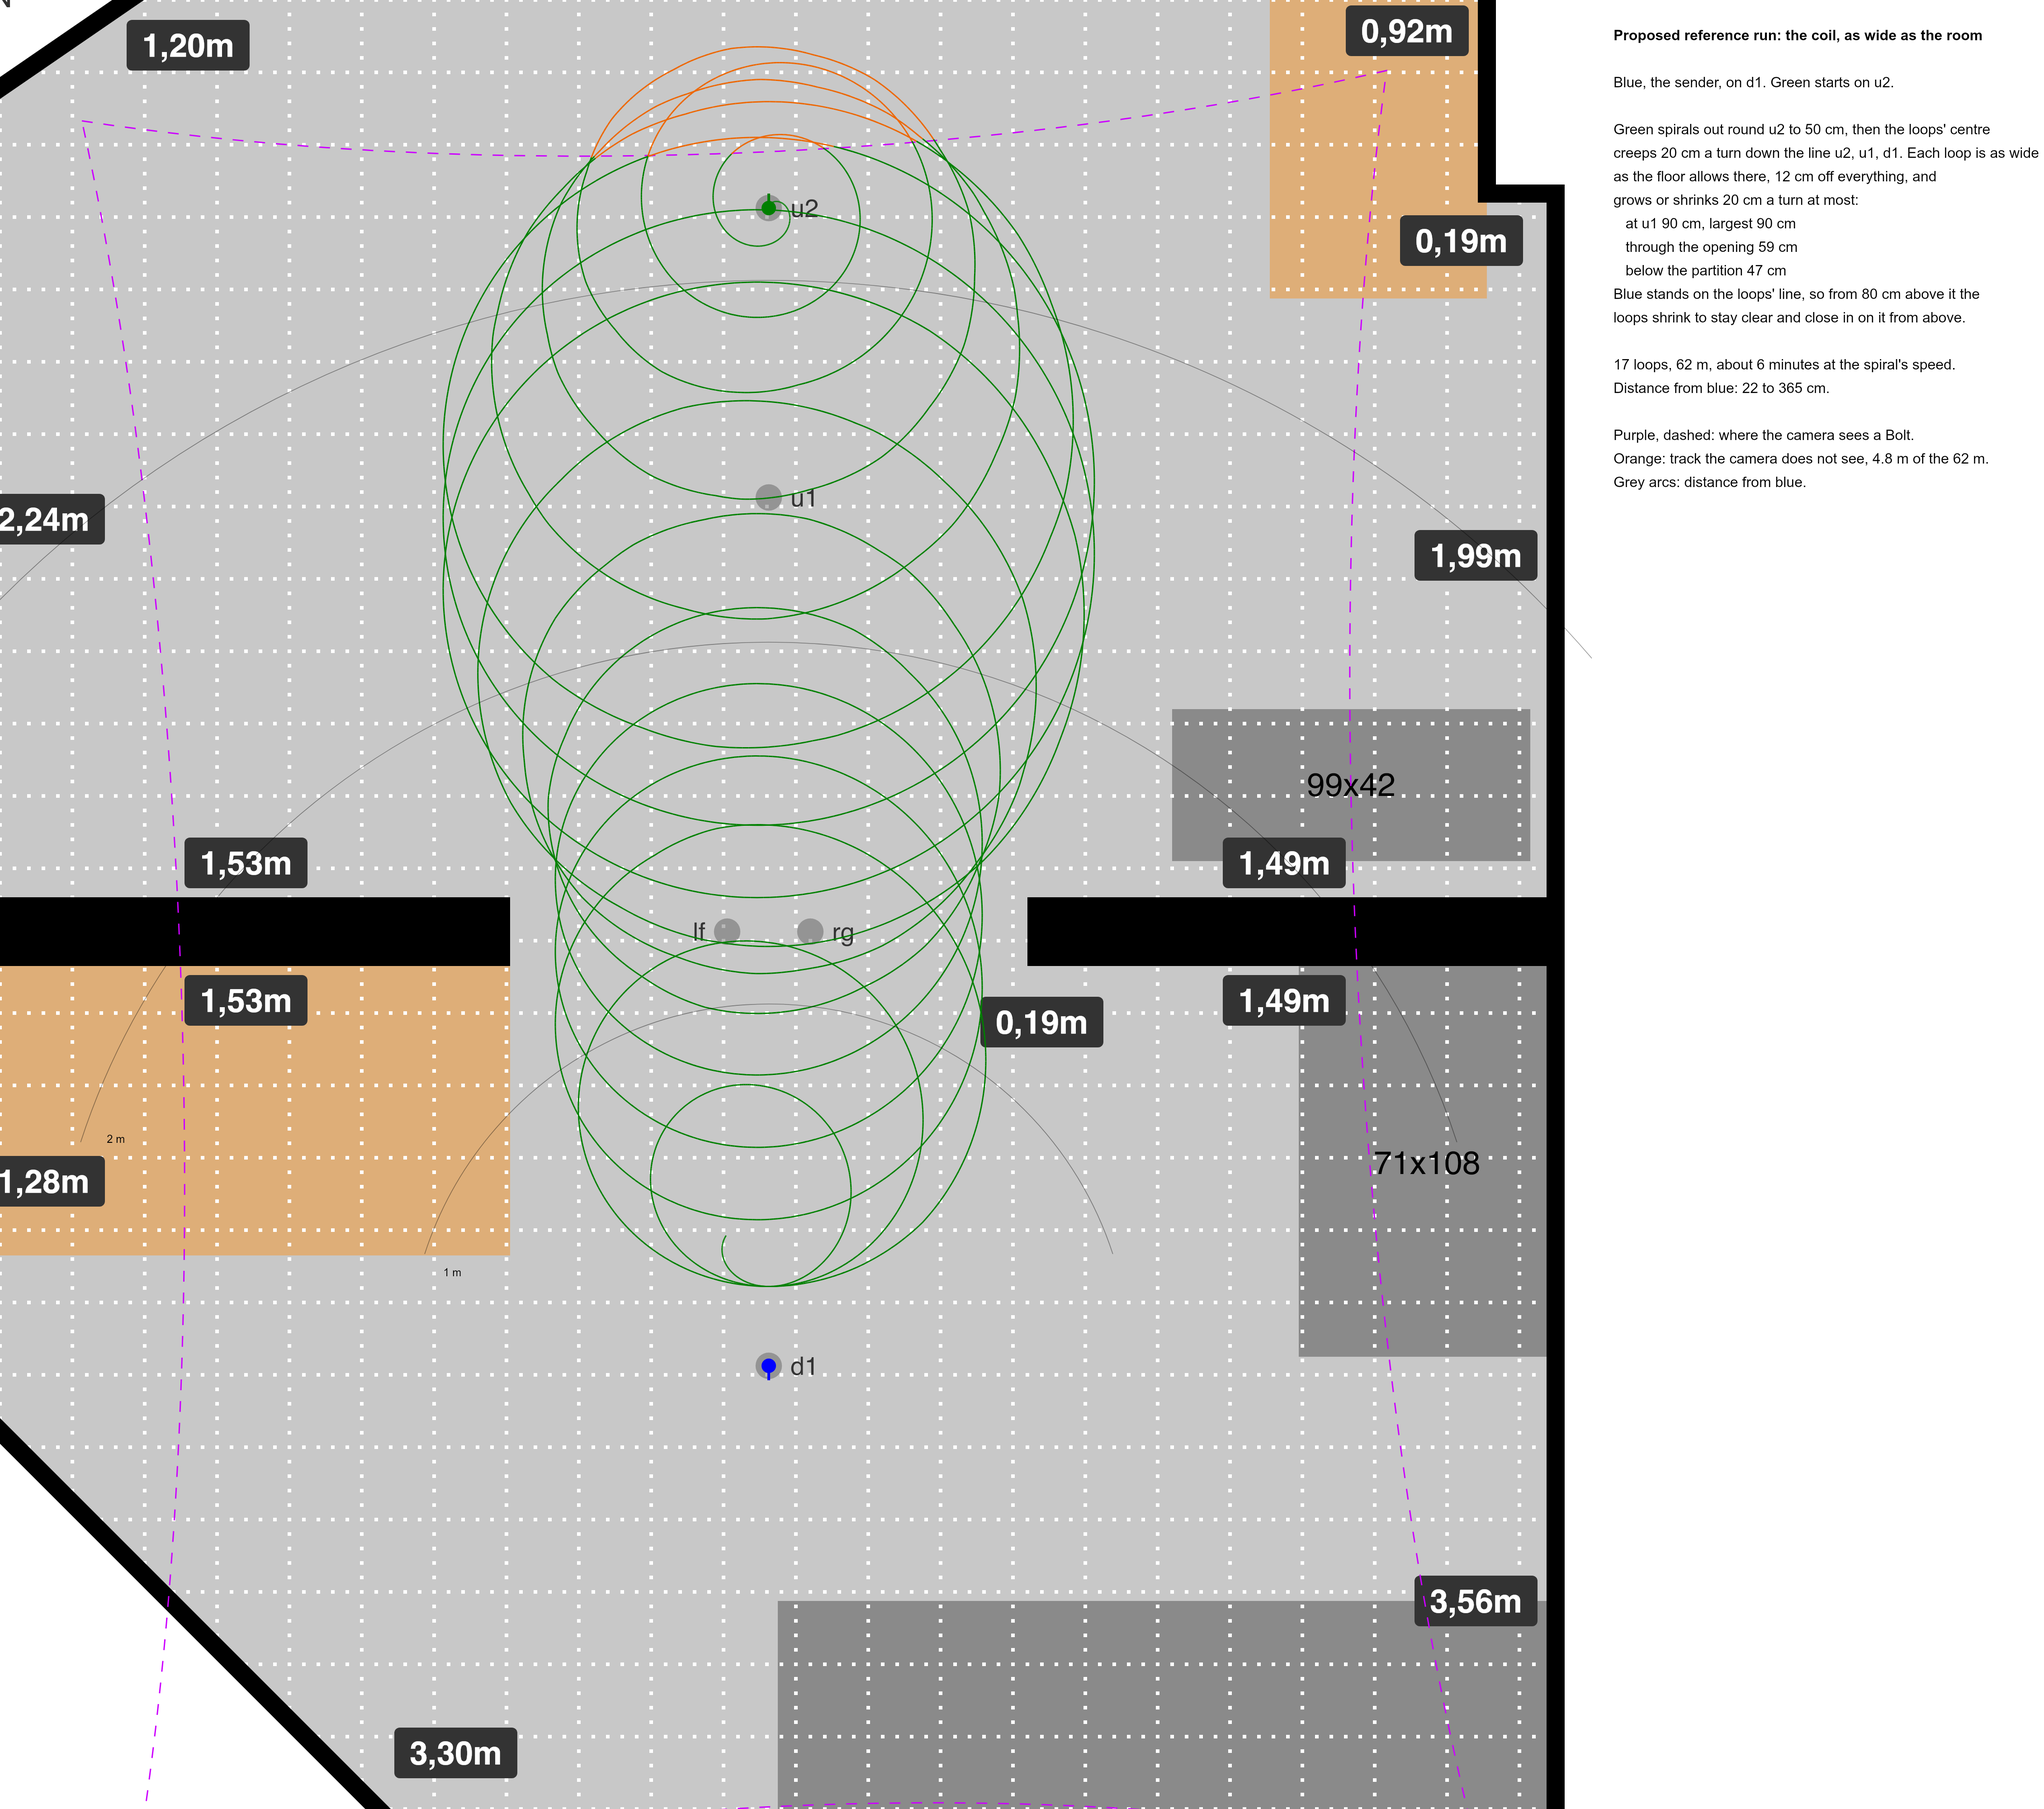
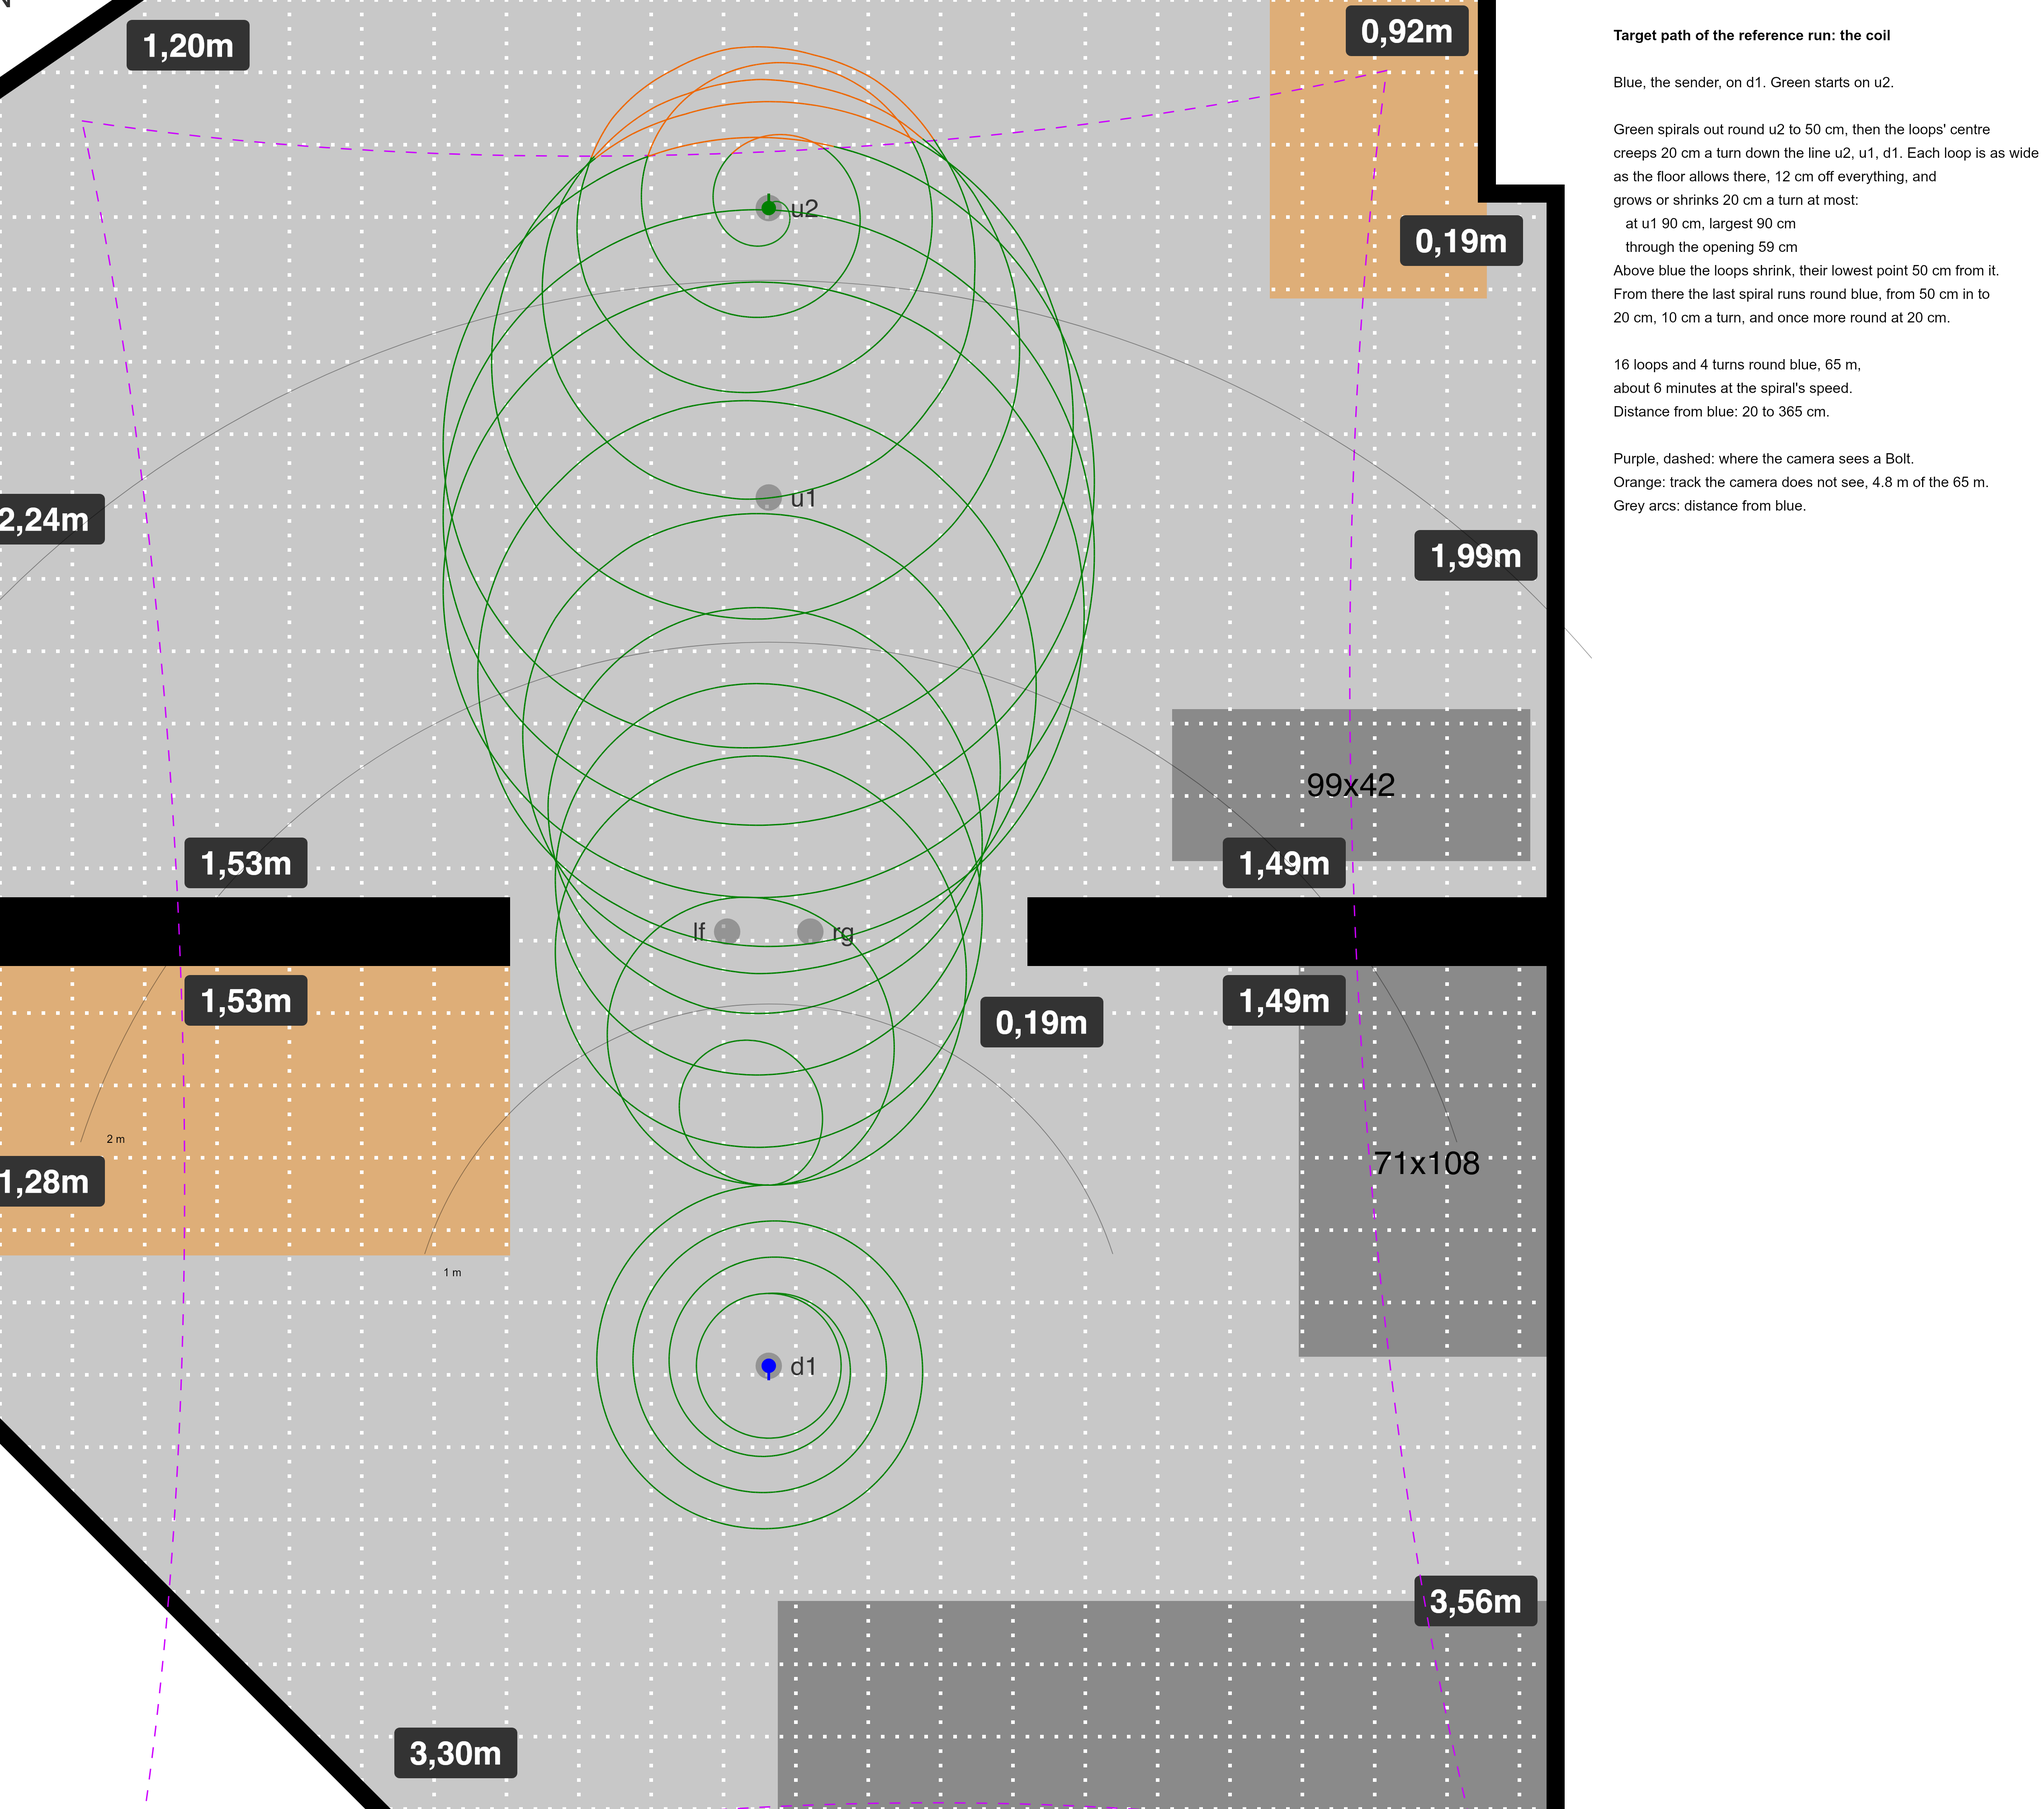
docs: the learnings for the core brain plan; ref/coil's target with its last spiral. docs/core-brain.learnings.md is a staging note, to be folded into core-brain.plan.md and then removed: the shared link and infrared first, the freeze of rolls tied to volleys in silence, the read schedule dropping t

Changed region(s): [[0.7799, 0.125, 0.967, 0.2812], [0.8111, 0.0, 0.9046, 0.0312], [0.3431, 0.6875, 0.4367, 0.7188]]

diff --git a/docs/core-brain.learnings.md b/docs/core-brain.learnings.md
@@ -1,0 +1,66 @@
+# Learnings for the core brain plan
+
+**A staging note.** It collects what the survey work shows, to be folded into `docs/core-brain.plan.md`; once folded, this file goes. Every number names its run; the runs are in `bench/` and the commit messages carry the full measurements.
+
+## 1 The link is shared, infrared goes first
+
+- One Bluetooth link per Bolt carries its rolls, its corner reads, the listen's re-arm, the motion stream and every ack.
+- Measured on the spiral survey with Seeker/green on u1 and Sender/blue on d1: a drive that rolls on every motion sample, 13.4 and 13.8 rolls a second, leaves 32 and 43 % of the corner reads without an ack and loses 21 and 22 of the listen's re-arms (bench runs 33 and 32). The same drive at one roll every 280 ms, 3.0 a second, leaves 9 % without an ack (bench run 34). Seeks that roll 3.1 to 4.0 times a second leave 0 to 1 % (bench runs 21, 23, 28, 29, 30).
+- Today the rule lives in each drive's own care: the brain rolls right after a volley, the `archimedean` behavior limits its own rate. Nothing enforces it.
+- For the plan: the observation layer owns the link's timetable and answers whether the link is free; the motor rolls on its own clock and yields to a volley. The same gate belongs to core's command queue, so every drive code obeys it without knowing who reserved the link.
+
+## 2 Rolls tied to volleys freeze the seeker in silence
+
+- The brain sends a roll only after a volley has come back; before the first frame a timer rolls instead and is then off for the run. Volleys go only to frames the seeker expects, and a channel leaves that schedule `expectMs`, 3 s, after it was last heard.
+- So silence stops the rolls. Measured in bench run 31, Seeker/green from u1, Sender/blue on d1: the seeker drove out of the sender's line of sight behind the partition, the last frame came at 39.4 s, the last volley and the last roll at 42.6 s, and it drove on its last command at seek speed for 7.7 s until the user stopped it at the chest.
+- For the plan: what the motor does without frames is a decision of the brain, from the belief and its confidence; it can only be one when the motor keeps being asked. Losing the line of sight is the normal case of the game.
+
+## 3 The read schedule drops the only channel that still arrives
+
+- Measured on bench run 34 by the camera's distance from the sender: 150 to 200 cm 1.49 frames a second and 13 hits in 243 reads fired; 200 to 250 cm 1.73 and 23 in 458; 250 to 300 cm 0.97 and 8 in 320; 300 to 350 cm 0.36, strength 16 alone, and none in 71.
+- Beyond 3 m one frame arrives about every 3 s, which is the schedule's `expectMs`: after each frame heard three rounds get a volley, then the seeker stops reading until the next frame. The reads thin out exactly where each one matters most.
+- The sender's beat is 200.00 ms in every run measured, with 4 to 7 ms of jitter per send, so a channel's next frame can be predicted far longer than 3 s.
+- For the plan: the last heard channel stays on the schedule for about 10 s; the others leave it at 3 s as today.
+
+## 4 The ladder has to reach 4 m
+
+- The long ladder sends strengths 2, 4, 8 and 16; the emitters go to 255; of the eight infrared codes seven are in use.
+- On bench run 34 strength 2 is not heard anywhere between 150 and 350 cm from the sender, strength 4 to 250 cm, strength 8 to 300 cm, strength 16 alone beyond.
+- For the plan: the ladder is measured and chosen by survey before the brain's far weights, since which levels arrive is the brain's cue for distance. A level added on the free code keeps every recorded run valid; changing the strengths behind the codes in use retires the bench's recorded runs. The user's word: with a new ladder the old runs retire, and a reference run takes their place.
+
+## 5 What a new ladder asks of the brain
+
+- Adapts by itself: the builder makes a frame cell and a slot cell per channel of the observation block; a ladder's round follows from its number of channels; the sender sends what core's `LADDERS` lists.
+- To be drawn: the weights of the new levels' frames and silences onto ring and distance, and the distance bands, which end at 190 cm today. This is W2.
+- Written into code today: the "near" rule asks for the short ladder when the long ladder's strength 2 is heard three times; it holds only while strength 2 stays that ladder's weakest level.
+- The brain tab's anatomy has four places for long channels and three for short ones; a further channel needs its place.
+
+## 6 The survey is the instrument
+
+- The phone over the floor gives a Bolt's true place: its lit matrix found against a dark frame (`tracking/glow.ts`), mapped to the floor by a fitted pose (`tracking/floorcam.ts`). With both Bolts standing on reference points the camera puts them 2.1 and 0.7 cm from the points.
+- A run's frames are saved beside it outside the page (`bench/camrec.mjs`) and turned into its track afterwards (`bench/camtrack.mjs`); the camera's lag is found per run, 2.25 and 2.5 s on the two spirals. Camera and locator lie 8.4 to 9.5 cm apart in the median over runs of 70 to 170 s; the locator's spiral comes out about a tenth larger than asked.
+- `bench/ref/` holds reference runs by name, tracked: the session's cut, the camera's track, the image. `ref/archimedean` is the spiral round u1.
+- `ref/coil` is the next one; `target.png` is its agreed path: Sender/blue on d1, Seeker/green from u2, a spiral out round u2 to 50 cm, loops creeping down the line to d1 as wide as the floor allows, a last spiral round the sender from 50 cm in to 20 cm. It covers 20 to 365 cm on the line of sight and shows the sender every side of the seeker at every distance: the data to confirm a ladder over the range, to score the present brain and to draw the next one's weights from.
+- The camera's picture ends 15 to 20 cm beyond u2; the track beyond it is bridged by the locator between the camera's points.
+
+## 7 Open
+
+- Bench run 31 heard 37 frames in its first 39 s with the line of sight free, and none of its 184 corner reads hit; reads were timed as in runs that hit (a read 30 to 70 ms before 74 % of the frames, acks in 46 ms). Not explained.
+- Of the corner reads fired at 2.4 and 3.2 m with the seeker standing, 7 to 11 % get no ack with no rolls at all (bench runs 20, 22). Not explained.
+- After a reload by the dev server the page finds no Bolt within 12 s in 40 of 102 recorded cases, after a reload by hand in 28 of 118; the cases with the Bolts asleep are not told apart.
+
+## 8 Where it goes in the plan
+
+| Order | Step | What |
+|---|---|---|
+| 1 | L1 | the live baseline finished: the seek from 2.4 m repeated, the one from 3.2 m run |
+| 2 | F, the field (new) | the survey as the plan's instrument: the coil behavior, the camera's track with its bridging, the read schedule keeping the last heard channel |
+| 3 | B3 (new) | the link gate between observation and motor, and in core |
+| 4 | R, the reach (new) | the ladder to 4 m, measured and chosen on the coil |
+| 5 | C1 to C3 | the generic network, unchanged, independent of the steps above |
+| 6 | W1, S1, S2 | unchanged |
+| 7 | W2 | far weights and bands, for the ladder of R; its 3.5 m becomes the ladder's reach |
+| 8 | M1 (new) | the motor's answer to silence, from belief and confidence, as cells of the circuit |
+| 9 | D1 to D5, L2, L3, E | unchanged |
+
+Three points are the user's to settle: L1 before or after R; whether 4 m is the ladder's reach alone or also L3's test range, which the goal sets at 0.5 to 3.5 m; M1's place, here after W2 since confidence follows from the weights, or right after B3 since the freeze spoils far seeks.
